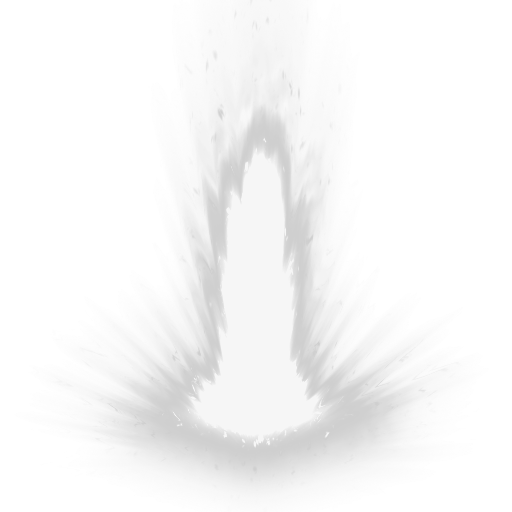
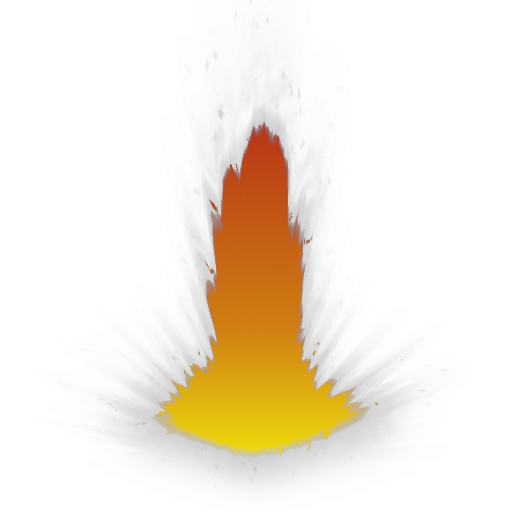
Elimino el fondo del fuego del disparo y les pongo un gradiente de amarilo-rojo

Changed region(s): [[0.2812, 0.2188, 0.7188, 0.9062]]

diff --git a/client/game/asset/asset_generator.cpp b/client/game/asset/asset_generator.cpp
@@ -84,7 +84,10 @@ Shared<SDL2pp::Texture> View::AssetGenerator::generate_animation(
         frames.size() * 32,
         32
     );
+    animation->SetBlendMode(SDL_BLENDMODE_BLEND);
     renderer->SetTarget(*animation);
+    auto blend_mode = renderer->GetDrawBlendMode();
+    renderer->SetDrawBlendMode(SDL_BLENDMODE_BLEND);
     for (size_t i = 0; i < frames.size(); i++) {
         renderer->Copy(
             *frames[i],
@@ -92,28 +95,7 @@ Shared<SDL2pp::Texture> View::AssetGenerator::generate_animation(
             SDL2pp::Rect(i * 32, 0, 32, 32)
         );
     }
-    renderer->SetTarget();
-    return animation;
-}
-
-Shared<SDL2pp::Texture> View::AssetGenerator::generate_animation(
-    const std::vector<Shared<SDL2pp::Texture>>& frames
-) {
-    auto animation = make_shared<SDL2pp::Texture>(
-        *renderer,
-        SDL_PIXELFORMAT_RGBA8888,
-        SDL_TEXTUREACCESS_TARGET,
-        frames.size() * 32,
-        32
-    );
-    renderer->SetTarget(*animation);
-    for (size_t i = 0; i < frames.size(); i++) {
-        renderer->Copy(
-            *frames[i],
-            SDL2pp::NullOpt,
-            SDL2pp::Rect(i * 32, 0, 32, 32)
-        );
-    }
+    renderer->SetDrawBlendMode(blend_mode);
     renderer->SetTarget();
     return animation;
 }
@@ -195,19 +177,6 @@ Shared<SDL2pp::Texture> View::AssetGenerator::generate_map(const DTO::MapDTO& ma
     insert_tiles(map_texture, map_dto, tiles);
 
     return map_texture;
-}
-
-Shared<SDL2pp::Texture> View::AssetGenerator::generate_animation(const IList<std::string>& list) {
-    std::vector<Shared<SDL2pp::Texture>> paths;
-    for (const auto& path: list) {
-        paths.push_back(
-            make_shared<SDL2pp::Texture>(
-                *renderer,
-                path
-            )
-        );
-    }
-    return generate_animation(paths);
 }
 
 Shared<SDL2pp::Texture> View::AssetGenerator::generate_animation(const IList<std::string>& list) {
